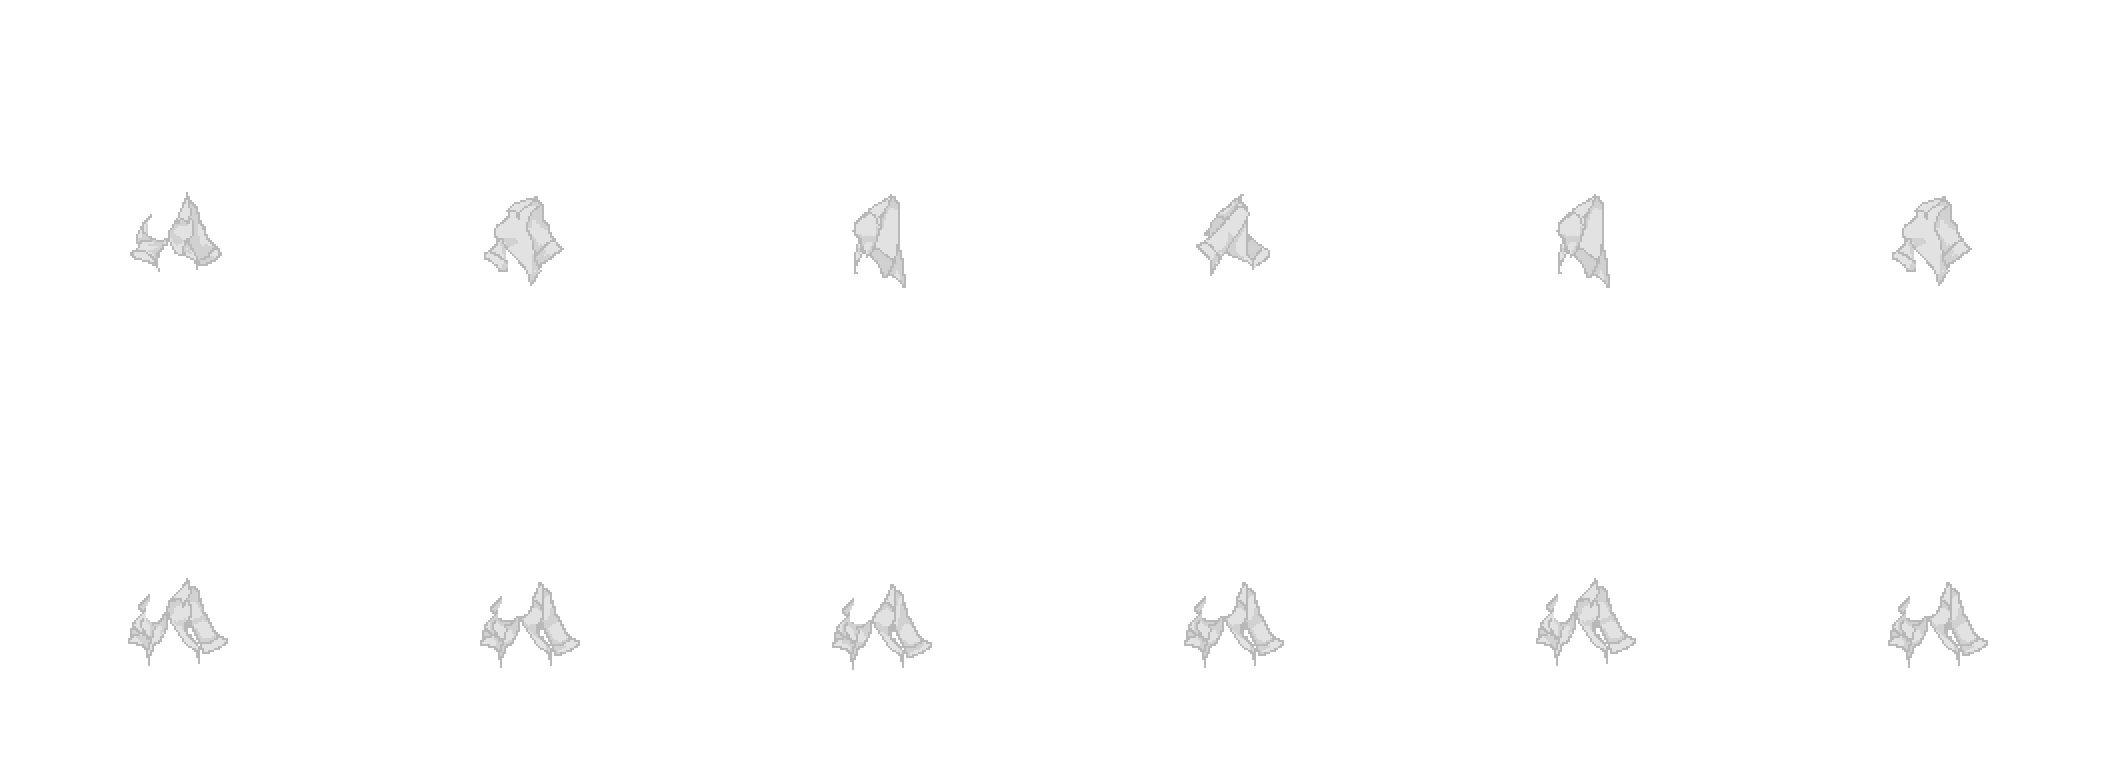
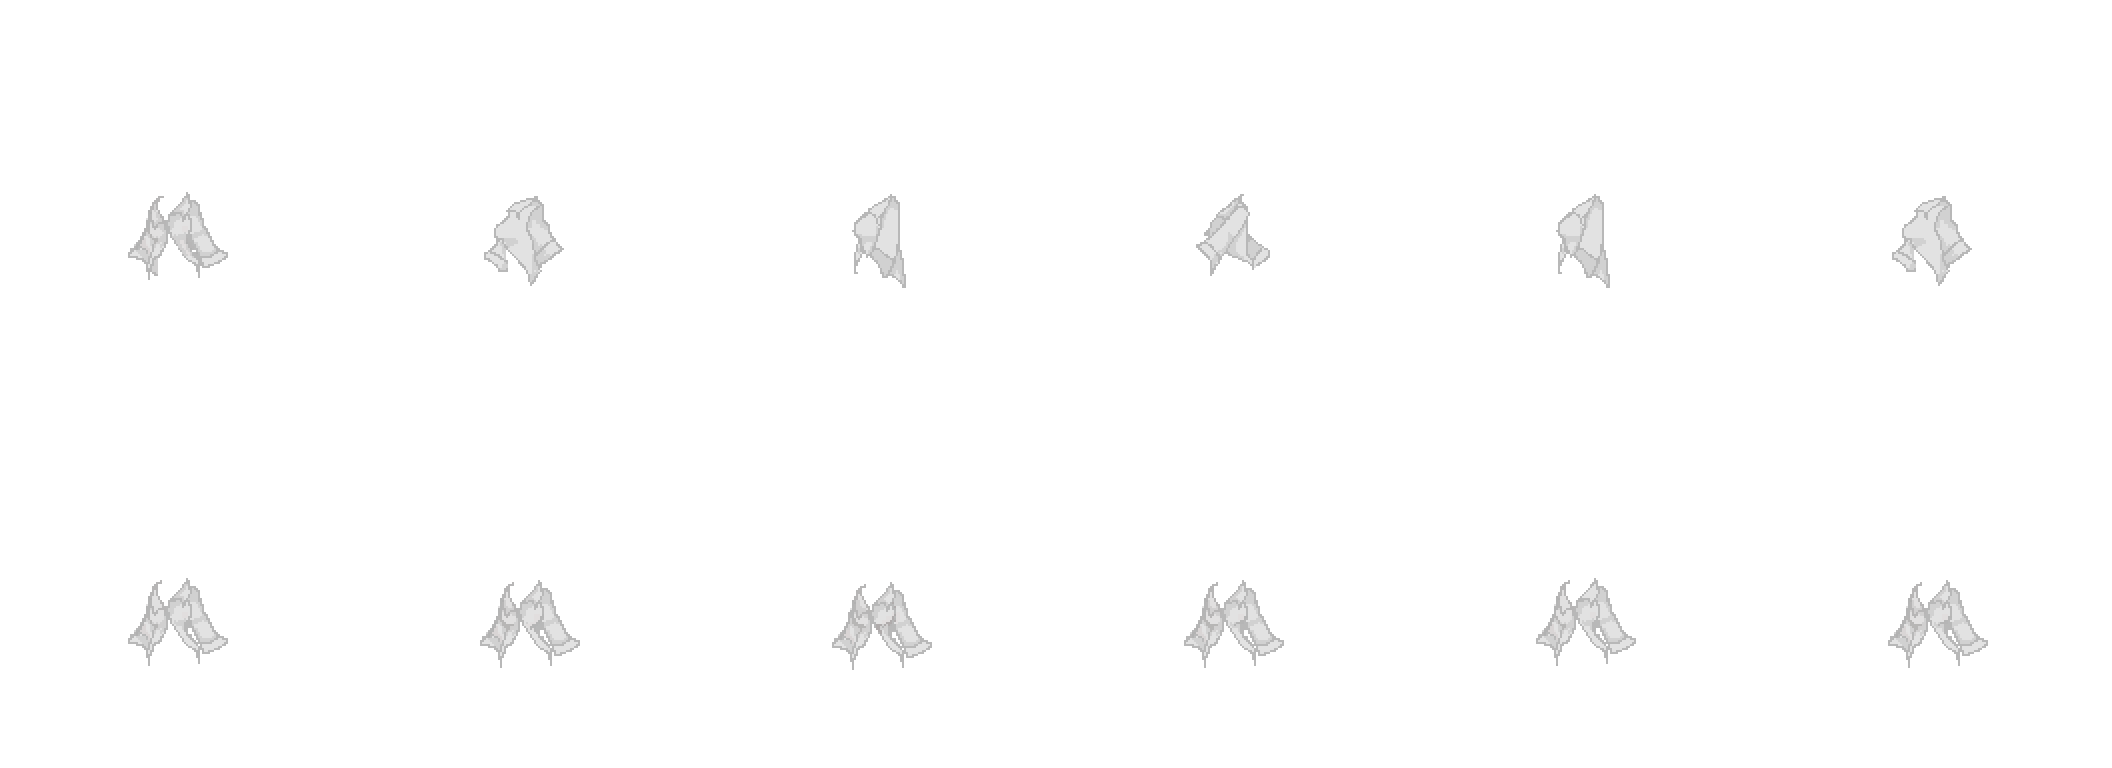
하의 「여성용 속옷」 · 셔츠를 새 그림(여민 셔츠)으로 — 처음 그림은 풀어진 셔츠(w-shirt-open)로 남겨, 남(커플이면 짝)이나 본인이 [ 까기 ] 하면 바뀌고 옷장에서 다시 입을 때까지 그대로 (plazaPeel)
Claude-Session: https://claude.ai/code/session_01RPXm6EaznB8GHqgQmkvgTr

diff --git a/plaza.js b/plaza.js
@@ -1607,6 +1607,80 @@ function stDo(code) {
     });
 }
 
+// ==========================================
+// 까기 (2026-11-08 사용자)
+// ==========================================
+//
+//   「셔츠는 내가 지금 준 걸로 교체. 타인(혹은 커플)이 터치해서 [까기]를 눌렀을 때에 내가 기존에 넣어놨던 걸로 바뀌게 해주고.
+//    본인 스스로 터치해서도 기존에 넣어둔 셔츠로 바뀌게 해줘. 바뀐 건 다시 옷장에서 입지 않는 이상은 유지되게.」
+//
+//   · 깔 수 있는 것(closet.js D.PEEL — 여민 셔츠)을 입고 그것이 그려지는(여성 체형) 사람을 누르면 [ 까기 ]
+//     남은 커플 규칙(cpOk)을 따른다 — 짝이 있으면 짝끼리만 · 본인은 제 사람을 눌러 언제나 깔 수 있다
+//   · 누르면 그 사람의 옷이 풀어진 셔츠로 바뀐다 — 옷장에서 다시 입기 전까지 그대로 (본인 칸에 적힌다)
+//
+//   plazaPeel/<사번> = { id, by: 깐 사람, bn: 그 이름, at } — 그 사람 화면이 듣고 제 옷을 바꾼다 (들어오기 전 것은 안 듣는다)
+const PK_PATH = 'plazaPeel';
+const PK_ITEM = ['peel', '까기'];
+(function pkListen() {
+    let on = false;
+    const iv = setInterval(function () {
+        const me = u_();
+        if (on || typeof database === 'undefined' || !database || !me) return;
+        on = true;
+        clearInterval(iv);
+        let first = true, seen = null;
+        database.ref(PK_PATH + '/' + me.code).on('value', function (snap) {
+            const v = snap.val();
+            const id = v && v.id;
+            if (first) { first = false; seen = id || null; return; }
+            if (!id || id === seen) return;
+            seen = id;
+            pkApply(v.bn || '');
+            snap.ref.transaction(function (cur) { if (!cur || cur.id !== id) return; return null; });   // 다 쓴 칸은 걷는다
+        });
+    }, 1000);
+})();
+// 나 — 내 옷을 풀어진 것으로 바꾸고 광장 모습을 다시 알린다
+function pkApply(byName) {
+    const me = u_();
+    if (!me || typeof window.dotPeel !== 'function') return false;
+    if (!window.dotPeel(me)) return false;
+    try { if (typeof window.plazaRedress === 'function') window.plazaRedress(); } catch (e) { }
+    if (byName) sysLine('👔 ' + byName + ' 사원이 셔츠를 깠습니다.');
+    return true;
+}
+function pkPeerOk(code) {
+    const q = run && run.peers && run.peers[code];
+    if (!q || !q.one || q.one.wf || typeof window.dotPeelOf !== 'function') return false;
+    let d = {};
+    try { d = JSON.parse(q.key) || {}; } catch (e) { }
+    return !!window.dotPeelOf({ code: code, dot: d }, true);
+}
+// 메뉴에 넣을 것 — 남이고 · 깔 것을 입었고 · 커플이면 짝끼리 (cpOk)
+function pkItem(code) {
+    if (!run || !code || code === myCode() || !cpOk(code) || !pkPeerOk(code)) return [];
+    return [PK_ITEM];
+}
+function pkDo(code) {
+    closeCarryMenu();
+    const me = u_(), d = db_();
+    if (!me || !d || !pkItem(code).length) return;
+    d.ref(PK_PATH + '/' + code).set({ id: me.code + ':' + now(), by: me.code, bn: nameOf(me), at: chatNow() });
+}
+// 본인 — 제 사람을 눌렀나 (peerAt 과 같은 자리 재기)
+function meAt(cx, cy) {
+    if (!run || !run.me || !run.me.wrap || HS()) return false;
+    const b = run.me.wrap.getBoundingClientRect();
+    if (!b.width || !b.height) return false;
+    const mx = (b.left + b.right) / 2, half = b.width * 0.2;
+    const t = b.top + b.height * 0.28, bot = b.bottom - b.height * 0.04;
+    return !(cx < mx - half || cx > mx + half || cy < t || cy > bot);
+}
+function pkSelfOk() {
+    const me = u_();
+    return !!(me && run && run.me && !run.me.wf && typeof window.dotPeelOf === 'function' && window.dotPeelOf(me, false));
+}
+
 // ★ other 가 참이면 **남**이다 — 가진 것을 따지지 않고 입은 그대로 그린다.
 //
 //   남의 모습은 방 칸에 적힌 dot 한 덩이로만 온다. 소지 목록(wardrobe)은
@@ -3029,6 +3103,13 @@ function carryTap(cx, cy) {
         if (tp && tp === run.tkOn && tkItem(tp).length) { tkHit(tp); return true; }
         run.tkOn = null;
     }
+    // 까기 — 본인이 제 사람을 누르면 [ 까기 ] (깔 것을 입었을 때만 · 남이 그 자리에 겹쳐 서 있으면 남이 먼저 · 2026-11-08)
+    if (!personAt(cx, cy) && meAt(cx, cy) && pkSelfOk()) {
+        return openMenu(cx, cy, nameIn(myCode()), [PK_ITEM], function (k) {
+            closeCarryMenu();
+            if (k === 'peel') pkApply('');
+        }, '');
+    }
     const me = myCode();
     // 작은 사람이 보통 사람을 — 올라가기 · 손에 앉기
     const big = bigAt(cx, cy);
@@ -3049,12 +3130,14 @@ function carryTap(cx, cy) {
         wfBonkItem(big).forEach(function (x) { items.push(x); });
         tkItem(big).forEach(function (x) { items.push(x); });
         stItem(big).forEach(function (x) { items.push(x); });
+        pkItem(big).forEach(function (x) { items.push(x); });
         items.push(INFO_ITEM);
         return openMenu(cx, cy, nameIn(big), items, function (k) {
             if (k === 'info') { infoOpen(big); return; }
             if (k === 'bonk') { wfBonk(big); return; }
             if (k === 'tickle') { tkStart(big); return; }
             if (k === 'strip') { stDo(big); return; }
+            if (k === 'peel') { pkDo(big); return; }
             if (k === 'rpsx') { closeCarryMenu(); sysLine('✊ 방금 져서 조금 쉬어야 합니다.'); return; }
             if (k === 'rps') { closeCarryMenu(); rpsStart(me, big); return; }
             climbDo(big, k);
@@ -3067,10 +3150,11 @@ function carryTap(cx, cy) {
         const any = peerAt(cx, cy);
         if (!any) return false;
         const bk = wfBonkItem(any);                    // 🪄 도깨비 방망이를 쥐었으면 「때리기」
-        return openMenu(cx, cy, nameIn(any), bk.concat(tkItem(any), stItem(any), [INFO_ITEM]), function (k) {
+        return openMenu(cx, cy, nameIn(any), bk.concat(tkItem(any), stItem(any), pkItem(any), [INFO_ITEM]), function (k) {
             if (k === 'bonk') { wfBonk(any); return; }
             if (k === 'tickle') { tkStart(any); return; }
             if (k === 'strip') { stDo(any); return; }
+            if (k === 'peel') { pkDo(any); return; }
             infoOpen(any);
         }, '');
     }
@@ -3083,11 +3167,11 @@ function carryTap(cx, cy) {
             return openMenu(cx, cy, nameIn(pick), wfBonkItem(pick).concat([INFO_ITEM]), function (k) { if (k === 'bonk') { wfBonk(pick); return; } infoOpen(pick); }, '🫙 ');
         }
         if (run.peers[w.by] && !cageMine() && !caged(w.by) && (roomOn(me, 'hand', pick) || roomOn(me, 'head', pick))) {
-            return openMenu(cx, cy, nameIn(pick) + ' — ' + nameIn(w.by) + ' 사원에게 있음', [['rps', '✊ 가위바위보로 뺏기']].concat(tkItem(pick), stItem(pick), [INFO_ITEM]),
-                function (k) { if (k === 'info') { infoOpen(pick); return; } if (k === 'tickle') { tkStart(pick); return; } if (k === 'strip') { stDo(pick); return; } closeCarryMenu(); rpsStart(pick, w.by); });
+            return openMenu(cx, cy, nameIn(pick) + ' — ' + nameIn(w.by) + ' 사원에게 있음', [['rps', '✊ 가위바위보로 뺏기']].concat(tkItem(pick), stItem(pick), pkItem(pick), [INFO_ITEM]),
+                function (k) { if (k === 'info') { infoOpen(pick); return; } if (k === 'tickle') { tkStart(pick); return; } if (k === 'strip') { stDo(pick); return; } if (k === 'peel') { pkDo(pick); return; } closeCarryMenu(); rpsStart(pick, w.by); });
         }
         sysLine('🍍 ' + nameIn(pick) + ' 사원은 ' + nameIn(w.by) + ' 사원에게 가 있습니다.');
-        return openMenu(cx, cy, nameIn(pick), tkItem(pick).concat(stItem(pick), [INFO_ITEM]), function (k) { if (k === 'tickle') { tkStart(pick); return; } if (k === 'strip') { stDo(pick); return; } infoOpen(pick); }, '');
+        return openMenu(cx, cy, nameIn(pick), tkItem(pick).concat(stItem(pick), pkItem(pick), [INFO_ITEM]), function (k) { if (k === 'tickle') { tkStart(pick); return; } if (k === 'strip') { stDo(pick); return; } if (k === 'peel') { pkDo(pick); return; } infoOpen(pick); }, '');
     }
     const mine = !!(w && w.by === me);
     const potion = !!wfOf(pick);                       // 🪄 소원권 물약 — 손으로만 든다
@@ -3102,6 +3186,7 @@ function carryTap(cx, cy) {
     wfBonkItem(pick).forEach(function (x) { items.push(x); });
     tkItem(pick).forEach(function (x) { items.push(x); });
     stItem(pick).forEach(function (x) { items.push(x); });
+    pkItem(pick).forEach(function (x) { items.push(x); });
     items.push(INFO_ITEM);
     return openMenu(cx, cy, nameIn(pick), items, function (k) {
         if (k === 'info') { infoOpen(pick); return; }
@@ -3109,6 +3194,7 @@ function carryTap(cx, cy) {
         if (k === 'bonk') { wfBonk(pick); return; }
         if (k === 'tickle') { tkStart(pick); return; }
         if (k === 'strip') { stDo(pick); return; }
+        if (k === 'peel') { pkDo(pick); return; }
         carryDo(pick, k);
     }, potion ? '🫙 ' : null);
 }

diff --git a/closet.js b/closet.js
@@ -154,7 +154,7 @@ const DOT = {
     //   ★ LP 판(악세 · 2026-10-23)도 맨 앞 — 발밑에 깔리고 날아다니는 조각은 옷 뒤로 지나간다 (몸 자리는 그림에서 비워 두었다)
     //   ★ 뉴비 세트 (2026-10-25) — 장화는 신발 줄 끝 · 의상은 겉옷 줄(사운드 의상 다음) · 병아리 후드 그림자(newbie-hood-in)는
     //     늑대 잠옷 그림자 다음 (머리카락 뒤 · 옷 위). 후드 바깥(newbie-hood)은 머리 위(top).
-    Z: ['sound-lp', 'sexy-pantsu', 'gochu', 'red-bikini', 'bunny-stk', 'sound-coat-in', 'pj-bottom', 'shoes', 'shoes-black', 'han-shoes', 'maker-shoes', 'sound-shoes', 'newbie-boots', 'sailor-shoes', 'pj-top', 'w-shirt', 'knit', 'gym-suit', 'han-inner',
+    Z: ['sound-lp', 'sexy-pantsu', 'gochu', 'red-bikini', 'bunny-stk', 'sound-coat-in', 'pj-bottom', 'w-panty', 'shoes', 'shoes-black', 'han-shoes', 'maker-shoes', 'sound-shoes', 'newbie-boots', 'sailor-shoes', 'pj-top', 'w-shirt', 'w-shirt-open', 'knit', 'gym-suit', 'han-inner',
         'dress', 'tuxedo', 'suit', 'black-suit', 'dream-suit', 'brown-suit', 'agent1', 'agent2', 'maker-outfit', 'sound-outfit', 'newbie-outfit', 'sailor-bubble',
         'school-m', 'sdress', 'devil-m', 'devil-f',         // 의상 1차 (2026-11-04)
         'robe', 'han-duru', 'cape',
@@ -238,6 +238,8 @@ const DOT = {
                  'bunny-suit': [0, 1, 2, 3, 4, 5], 'bunny-fur-b': [0, 1, 2, 3, 4, 5], 'bunny-stk': [0, 1, 2, 3, 4, 5],
                  // 셔츠 (여성 체형 · 2026-11-08) — 서기 줄 여섯 칸이 몸의 들썩임을 따라 그려져 있다 · 몸과 같은 시계로 돈다
                  'w-shirt': [0, 1, 2, 3, 4, 5],
+                 // 풀어진 셔츠 · 여성용 속옷 (2026-11-08) — 서기 줄 여섯 칸이 몸의 들썩임을 따라 그려져 있다
+                 'w-shirt-open': [0, 1, 2, 3, 4, 5], 'w-panty': [0, 1, 2, 3, 4, 5],
                  // 여성 체형 (2026-11-06 사용자 「서있을 때 7번으로 고정 · 움직이게 그렸는데」) — 서기 줄 여섯 칸(7~12번)이 저마다 다르다
                  'body-w': [0, 1, 2, 3, 4, 5],
                  // LP 판 — 서기 줄 여섯 칸에 판이 돈다 (2026-10-23)
@@ -274,6 +276,8 @@ const DOT = {
     //   red-bikini-off — 처음 주신 레드 비키비키니 그림(벗겨지는 그림)을 그대로 옮겨 둔 것. 서기 줄이 여성 체형 서기 칸과 맞는다.
     //   광장(plaza.js 「벗기기」)이 dotActor 의 strip(칸) 으로 넘긴다.
     STRIP: { 'red-bikini': { sheet: 'red-bikini-off' } },
+    // ★ 까기 (2026-11-08) — 칸 · 입은 것 → 바뀌는 것. 광장(plaza.js 「까기」)이 dotPeel 로 바꾼다. 그 장을 그리고 있어야(여성 체형) 뜬다.
+    PEEL: [{ k: 'top', from: 'wshirt', to: 'wshirt-open', sheet: 'w-shirt' }],
     // ★ 가만히 서 있으면 나오는 동작 — 사번 0000 · 8449 두 사람만 (2026-10-17)
     //
     //   주신 그림(sit-swing.png)은 **한 벌이 통째로** 그려진 열두 칸이다 —
@@ -405,13 +409,20 @@ const DOT_SLOTS = [
             // ★ 셔츠 (2026-11-08 사용자 「여성 신체 있는 둘한테만 넣어주고 상의 - 셔츠로 해서 넣어줘. 여성 신체용.」)
             //   주신 그림은 1728x768 (칸 288) — 칸마다 가로 +30 으로 352 칸에 옮겼다. 걷기 줄은 네 칸만 와서 5·6번째를 3·2번째로 채웠다 (몸 걷기도 5=3 · 6=2).
             //   여성 체형(body-w) 몸에 대 보니 열두 칸이 맞았다. owner — 상담사 + Owner 사원만 · fem — 몸이 여성 체형일 때만 (레드 비키비키니와 같다)
-            { i: 'wshirt', n: '셔츠', over: ['w-shirt'], owner: true, fem: true }
+            // ★ 2026-11-08 「셔츠는 내가 지금 준 걸로 교체」 — 새 그림(여민 셔츠)이 w-shirt · 처음 그림(풀어진 셔츠)은 w-shirt-open 으로 남겼다.
+            //   남(커플이면 짝)이 [ 까기 ] 하거나 본인이 저를 눌러 [ 까기 ] 하면 풀어진 셔츠로 바뀐다 (D.PEEL · plaza.js 「까기」).
+            //   바뀐 것은 옷장에서 다시 입을 때까지 그대로 — 풀어진 셔츠(hide)는 옷장에 안 보인다.
+            { i: 'wshirt', n: '셔츠', over: ['w-shirt'], owner: true, fem: true },
+            { i: 'wshirt-open', n: '셔츠', over: ['w-shirt-open'], owner: true, fem: true, hide: true }
         ]
     },
     {
         k: 'bottom', n: '하의', items: [
             { i: '', n: '없음', over: [] },
-            { i: 'pj', n: '잠옷 하의', over: ['pj-bottom'], def: true }
+            { i: 'pj', n: '잠옷 하의', over: ['pj-bottom'], def: true },
+            // ★ 여성용 속옷 (2026-11-08 사용자 「하의에 여성용 속옷 하나 넣어주고」) — 여성 체형 · 상담사 + Owner 만 (다른 여성 체형 옷과 같다)
+            //   주신 그림 1728 장 → 칸마다 +30 · 걷기 5·6 은 3·2 로 채웠다
+            { i: 'wpanty', n: '여성용 속옷', over: ['w-panty'], owner: true, fem: true }
         ]
     },
     {
@@ -1067,6 +1078,27 @@ function look(user, override, all) {
     return { head: head, headPick: headPick, body: bodySheet, bodyImg: bodyImg, layers: over, tops: tops, backs: backs, pick: pick, col: colOut || col, nw: Object.keys(nw).length ? nw : null, follow: fol };
 }
 window.dotLook = look;
+// ★ 까기 (2026-11-08) — 이 사람이 지금 깔 수 있는 것을 입었나 (그 장을 그리고 있나) · 있으면 그 D.PEEL 칸
+window.dotPeelOf = function (user, all) {
+    try {
+        const L = look(user, null, !!all);
+        const d = (user && user.dot && typeof user.dot === 'object') ? user.dot : {};
+        return (D.PEEL || []).filter(function (p) { return d[p.k] === p.from && (L.layers || []).indexOf(p.sheet) >= 0; })[0] || null;
+    } catch (e) { return null; }
+};
+// 깐다 — 본인 칸에서만 적는다 (남이 누르면 plaza.js 가 알려 주고, 그 사람 화면이 이것을 부른다)
+window.dotPeel = function (user) {
+    const u = user || u_();
+    if (!u) return false;
+    const p = window.dotPeelOf(u, false);
+    if (!p) return false;
+    const d = Object.assign({}, u.dot);
+    d[p.k] = p.to;
+    u.dot = d;
+    if (u === u_()) save({ dot: 1 });
+    try { if (typeof window.closetReset === 'function') window.closetReset(); } catch (e) { }
+    return true;
+};
 // ★ 벗기기 (2026-11-08) — 다 벗겨진 사원이 제 옷을 다 벗는다 (체형 · 악세 · 머리 · 색은 그대로).
 //   벗겨지기 전에 레드 비키비키니(alone)가 다른 칸 옷을 안 그리고 있었으므로, 겉옷만 벗기면 잠옷 같은 것이 도로 나타난다
 //   — 그래서 옷 칸(상의 · 하의 · 겉옷 · 구두 · 장갑 · 망토)을 모두 「없음」으로 적는다. 광장은 plaza.js 가 다시 입힌다.
@@ -1905,7 +1937,7 @@ function buildRows(u) {
     let wear = '';
     DOT_SLOTS.forEach(function (s) {
         if (s.max) return;                       // 악세는 아래에서 따로
-        const list = items(s, u);
+        const list = items(s, u).filter(function (x) { return !x.hide; });   // hide — 옷장에는 안 보이는 칸 (풀어진 셔츠)
         if (list.length < 2) return;             // 고를 것이 하나뿐이면 줄을 안 만든다
         wear += rowOf(s.n, list.map(function (x) {
             return btn('one', s.k, x.i, x.n, x.i === (p[s.k] || ''));
